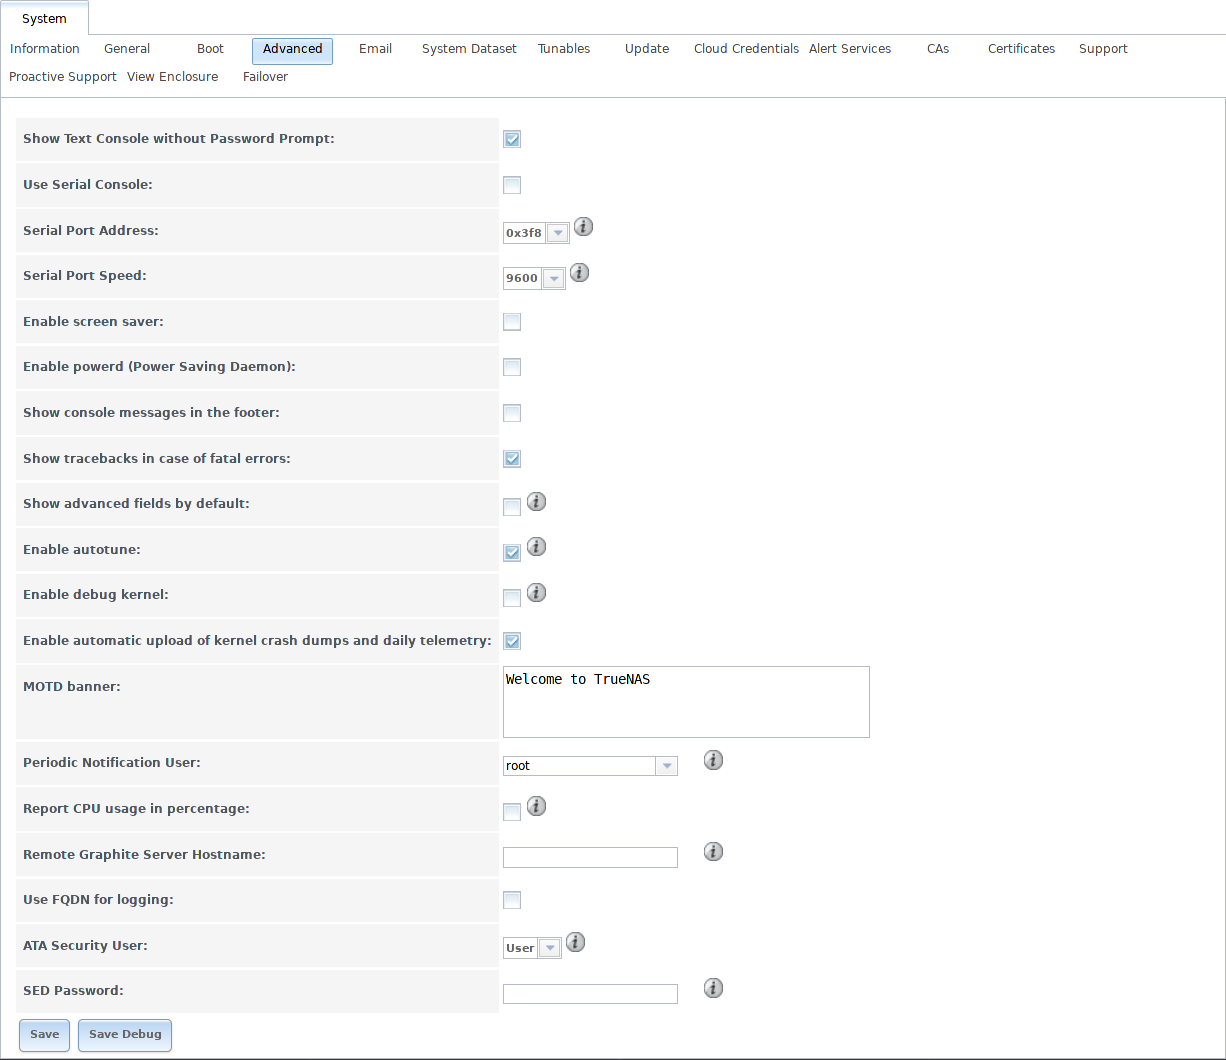
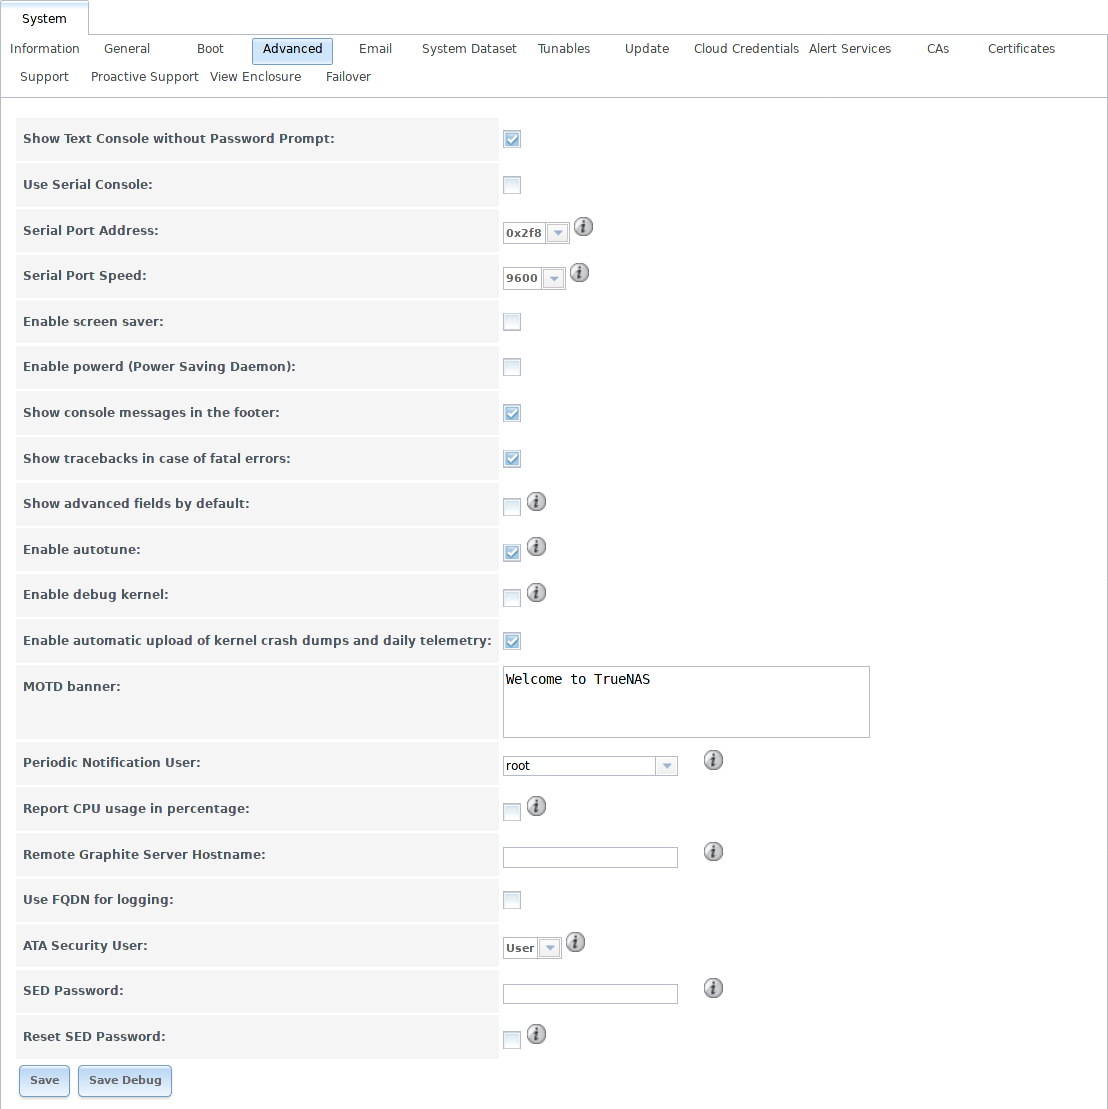
System/Advanced/Show console messages
Update System/Advanced screenshot
Update tn_initial1c (rename to tn_webinterface)

Ticket: 33270

diff --git a/userguide/tn_initial.rst b/userguide/tn_initial.rst
@@ -305,7 +305,7 @@ administrative GUI appears, as shown in the example in
 
 .. _tn_initial:
 
-.. figure:: images/tn_initial1c.png
+.. figure:: images/tn_webinterface.png
 
    %brand% Graphical Configuration Menu
 
